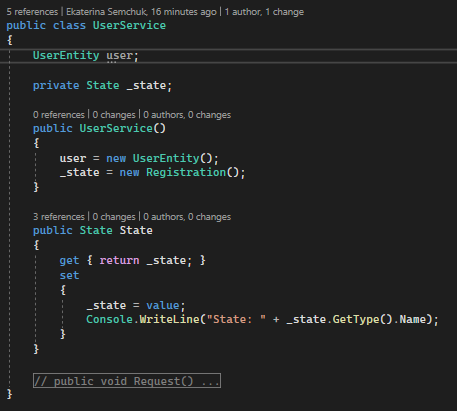
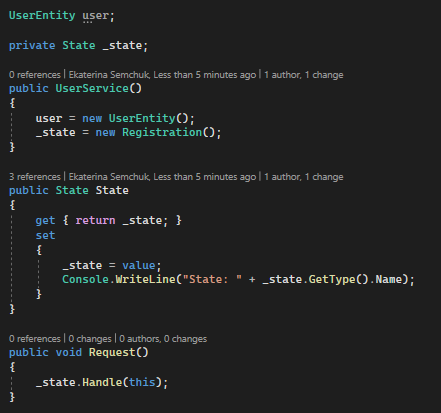
State refactored

diff --git a/Lab Work №5/src/TimeTracker/Services/UserService.cs b/Lab Work №5/src/TimeTracker/Services/UserService.cs
@@ -24,31 +24,31 @@ namespace Tracker.TelegramBot.Services
             }
         }
 
-        //public void Request()
-        //{
-        //    _state.Handle(this);
-        //}
+        public void Request()
+        {
+            _state.Handle(this);
+        }
 
-        //public void AddFIO(string fio) 
-        //{
-        //    user.FIO = fio;
-        //}
-        //public void AddUsername(string username)
-        //{
-        //    user.Username = username;
-        //}
-        //public void AddNickname(string nickname)
-        //{
-        //    user.Nickname = nickname;
-        //}
-        //public void AddStatus(string status)
-        //{
-        //    user.Status = status;
-        //}
-        //public void AddCompany(CompanyEntity company)
-        //{
-        //    user.Company = company;
-        //}
+        public void AddFIO(string fio)
+        {
+            user.FIO = fio;
+        }
+        public void AddUsername(string username)
+        {
+            user.Username = username;
+        }
+        public void AddNickname(string nickname)
+        {
+            user.Nickname = nickname;
+        }
+        public void AddStatus(string status)
+        {
+            user.Status = status;
+        }
+        public void AddCompany(CompanyEntity company)
+        {
+            user.Company = company;
+        }
     }
 
     public abstract class State
